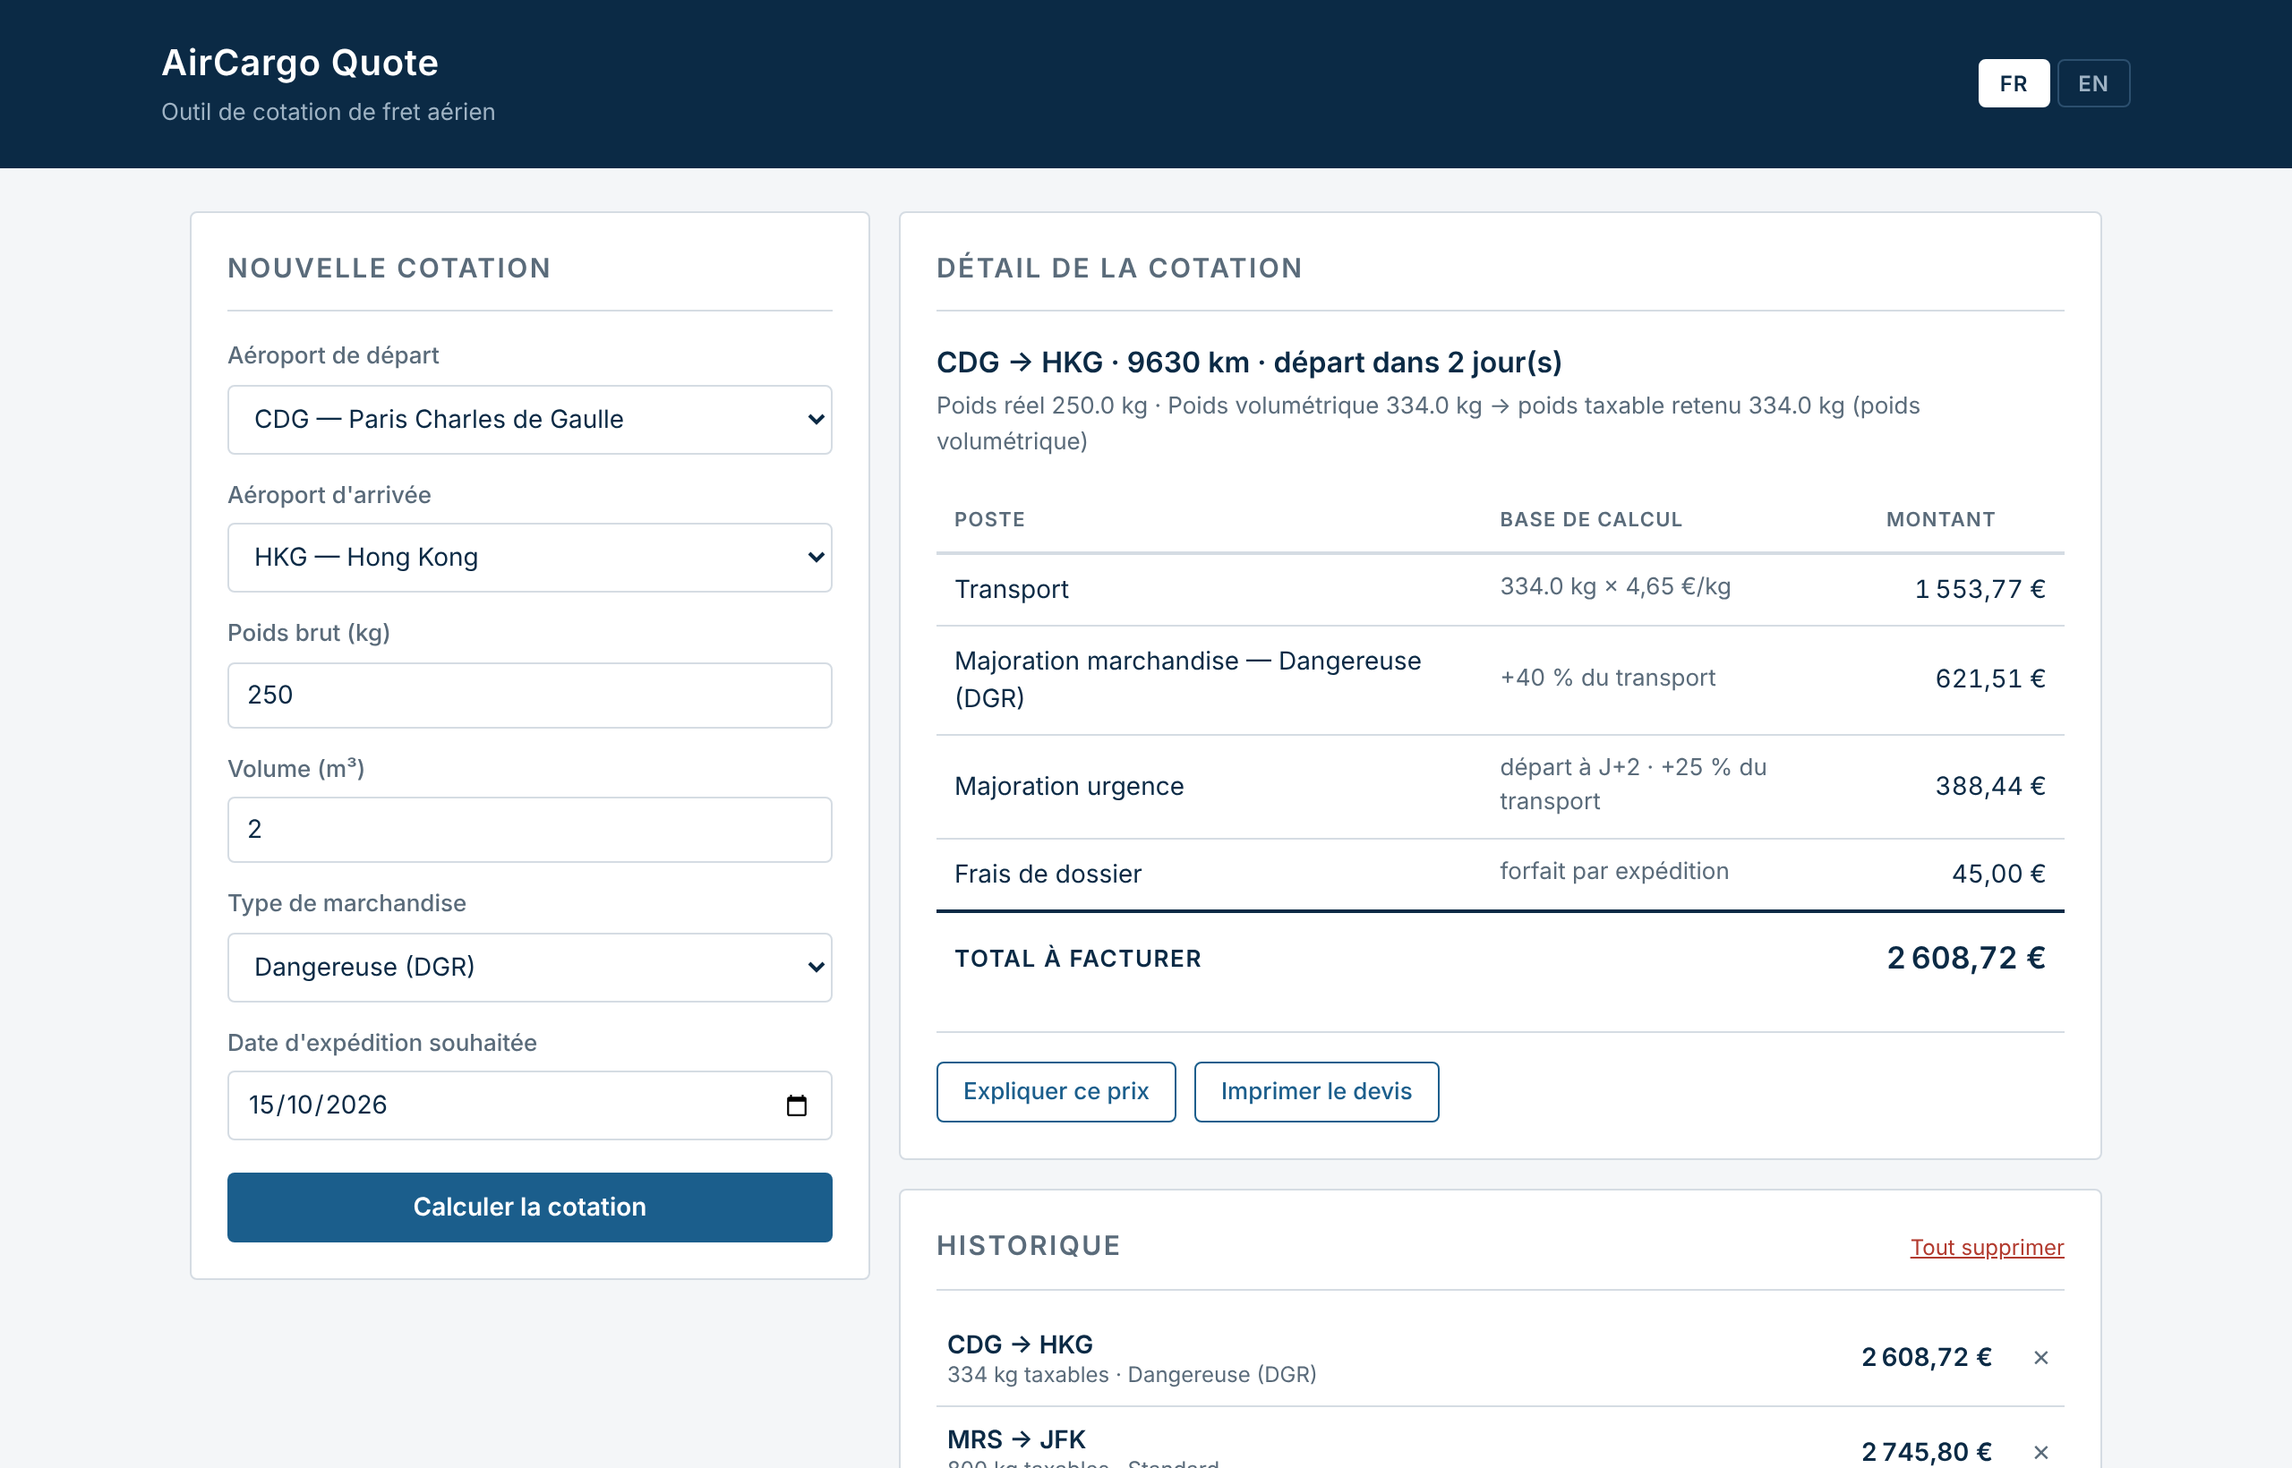
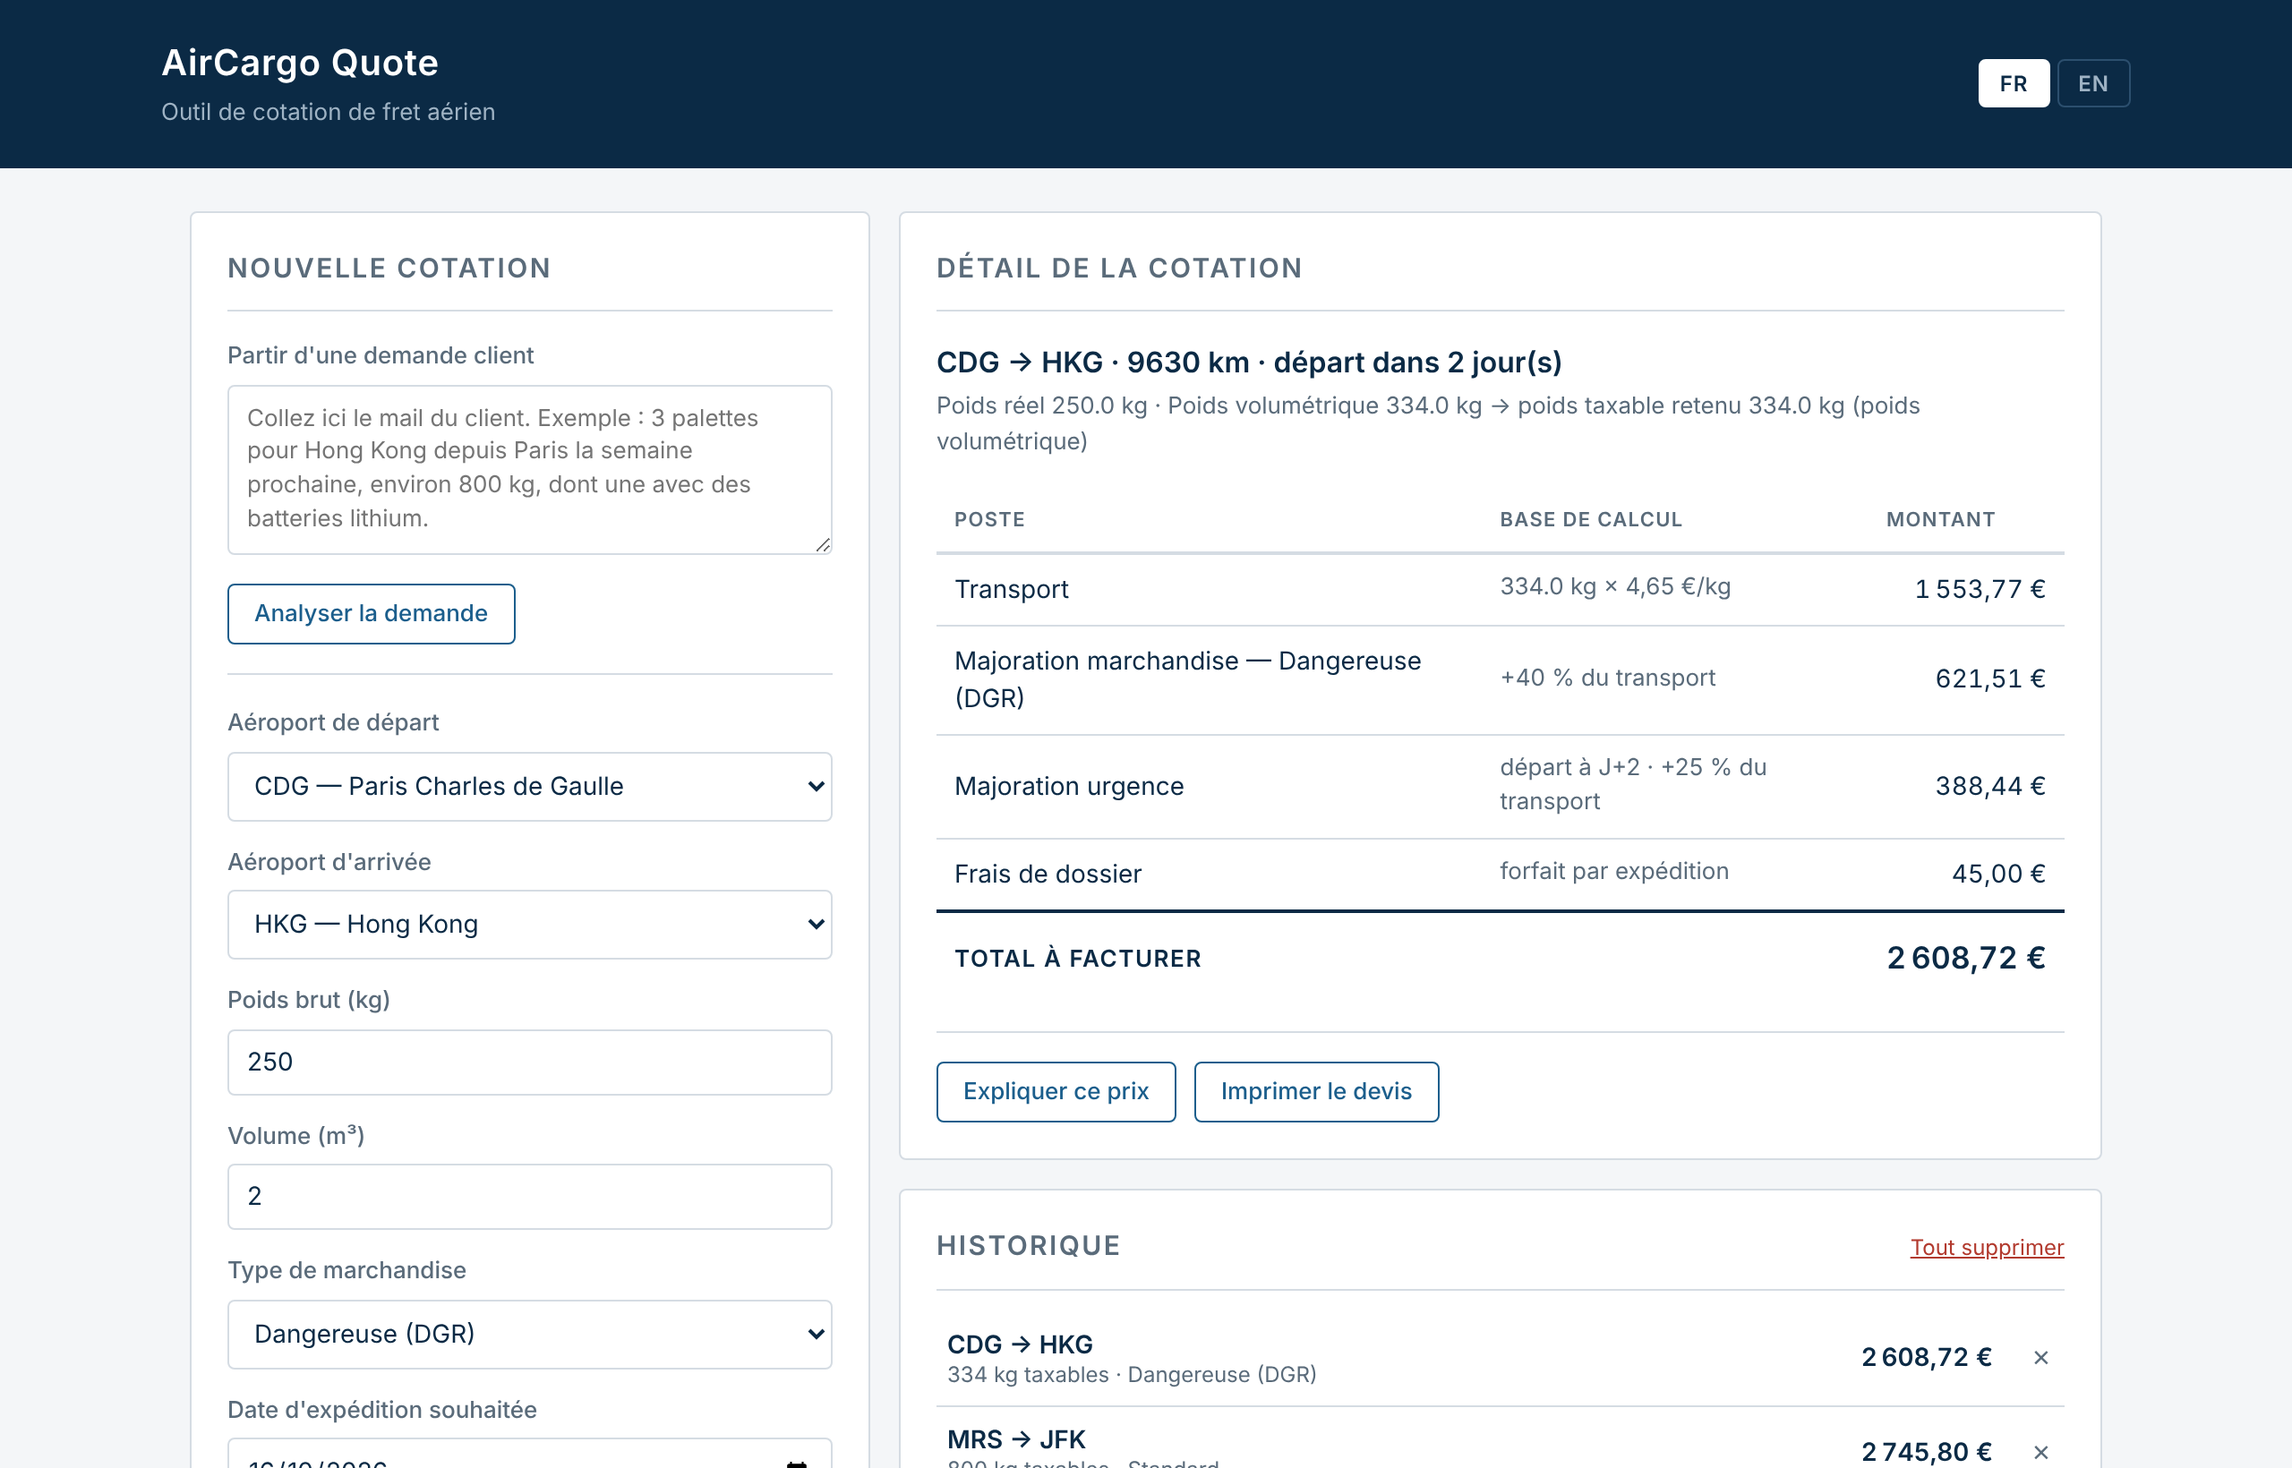
Met a jour le README, la feuille de route et les captures

diff --git a/ROADMAP.md b/ROADMAP.md
@@ -1,6 +1,6 @@
 # Feuille de route — vers la v2.0.0
 
-Version actuelle : **1.3.1**
+Version actuelle : **1.4.0**
 
 Ce document décrit la trajectoire de l'outil et la méthode retenue pour
 l'emprunter sans jamais livrer une version cassée.
@@ -48,8 +48,7 @@ par un interrupteur unique :
 ```javascript
 const FONCTIONNALITES = {
   margeInterne: true,
-  capaciteVols: false,   // v1.5 — code présent, pas encore activé
-  assistantSaisie: false // v1.9
+  capaciteVols: false    // v1.6 — code présent, pas encore activé
 };
 ```
 
@@ -63,7 +62,7 @@ deviennent impossibles à fusionner.
 On n'écrase jamais une structure existante. On **ajoute** le nouveau champ,
 on fait cohabiter les deux, on migre, puis seulement on **retire** l'ancien.
 
-Appliqué au stockage : la v1.8 introduit la persistance serveur sans
+Appliqué au stockage : la v1.9 introduit la persistance serveur sans
 supprimer le `localStorage`. Les deux coexistent derrière une même interface,
 le serveur devient la source de vérité, et le stockage local n'est retiré
 qu'en v2.0 — quand plus rien n'en dépend. C'est le *strangler fig* : le
@@ -83,7 +82,7 @@ change — ici, quand l'authentification devient obligatoire et que les données
 locales disparaissent. Chaque livraison est marquée :
 
 ```bash
-git tag -a v1.4.0 -m "Marge interne et cloisonnement des donnees"
+git tag -a v1.4.0 -m "Assistant de saisie"
 git push --tags
 ```
 
@@ -91,7 +90,34 @@ git push --tags
 
 ## Les étapes
 
-### v1.4.0 — Marge et cloisonnement interne
+### v1.4.0 — L'assistant de saisie *(livrée)*
+
+**Ce que ça apporte.** Le retournement de l'usage de l'IA. Jusqu'ici, le
+modèle intervenait **à la fin**, une fois le travail fait, pour rédiger un
+texte que l'agent aurait pu écrire lui-même. Désormais il intervient aussi
+**au début**, là où le temps se perd réellement.
+
+Une demande arrive en texte libre, par mail :
+
+> « Bonjour, 3 palettes pour Hong Kong semaine prochaine, environ 800 kg,
+> dont une avec des batteries lithium. »
+
+L'agent colle ce texte. Le modèle propose une expédition structurée — trajet,
+poids, type, date — et **lève un signalement DGR sur les batteries**. Le
+volume n'étant pas donné, le champ reste vide et signalé : le modèle n'estime
+pas un volume à partir d'un nombre de palettes. L'agent complète, corrige,
+puis lance le calcul.
+
+**Le principe qui compte.** Le modèle ne décide rien et ne déclenche rien : il
+prépare une saisie, un humain valide. Sa réponse est vérifiée champ par champ
+côté serveur, par une fonction pure testée sans appel à l'API.
+
+**Pourquoi avant la marge.** L'étape ne dépend d'aucune autre et apporte un
+gain de temps immédiat et mesurable. Elle a donc été avancée.
+
+---
+
+### v1.5.0 — Marge et cloisonnement interne
 
 **Ce que ça apporte.** Un modèle de coût de revient (capacité, manutention,
 traitement documentaire) et, en regard du prix, la marge en euros et en
@@ -99,7 +125,7 @@ pourcentage. Un simulateur de remise : l'agent saisit la remise demandée par
 le client, la marge se recalcule en direct, une alerte se déclenche sous le
 plancher défini.
 
-**Pourquoi en premier.** C'est le geste qui lève l'ambiguïté sur la nature de
+**Pourquoi c'est important.** C'est le geste qui lève l'ambiguïté sur la nature de
 l'outil. Une application qui affiche sa propre marge ne peut pas être
 destinée au client. La frontière interne / externe devient explicite et se
 matérialise en trois endroits :
@@ -121,7 +147,7 @@ déjà enregistrées s'affichent sans marge.
 
 ---
 
-### v1.5.0 — Le référentiel des vols
+### v1.6.0 — Le référentiel des vols
 
 **Ce que ça apporte.** Une table de vols : numéro, appareil, capacité en
 charge marchande et en volume, taux de remplissage courant. L'écran affiche
@@ -135,7 +161,7 @@ comportement n'en dépend. On valide le modèle avant de s'appuyer dessus.
 
 ---
 
-### v1.6.0 — Le prix suit le remplissage
+### v1.7.0 — Le prix suit le remplissage
 
 **Ce que ça apporte.** Le cœur métier de la v2. `calculerCotation()` accepte
 un second argument optionnel, le vol :
@@ -154,15 +180,15 @@ surtout de **la contrainte qui sature en premier** : une expédition dense sur
 un vol saturé en volume est valorisée différemment d'une expédition
 volumineuse sur un vol saturé en masse.
 
-**Pourquoi un paramètre optionnel.** La fonction reste pure et les quinze
-tests existants continuent de passer sans modification — ils appellent la
+**Pourquoi un paramètre optionnel.** La fonction reste pure et les tests
+existants continuent de passer sans modification — ils appellent la
 fonction sans vol et obtiennent exactement les mêmes montants. Les nouveaux
 tests couvrent le second chemin. Aucune régression possible sur les cotations
 déjà émises.
 
 ---
 
-### v1.7.0 — Le cycle de vie du dossier
+### v1.8.0 — Le cycle de vie du dossier
 
 **Ce que ça apporte.** Une cotation cesse d'être un objet mort. Elle acquiert
 un statut et un historique horodaté :
@@ -186,7 +212,7 @@ booking, tracking — deviennent un parcours continu dans l'outil.
 
 ---
 
-### v1.8.0 — La persistance serveur
+### v1.9.0 — La persistance serveur
 
 **Ce que ça apporte.** Une base SQLite et une API REST. Trois tables : vols,
 cotations, événements de statut. Le `localStorage` cesse d'être la source de
@@ -203,29 +229,6 @@ une conséquence.
 serveur. Le reste du code ne sait pas laquelle est active. Les données
 locales existantes sont migrées au premier démarrage. C'est le cœur du
 *strangler fig* — et l'étape qui rend la v2.0 possible sans réécriture.
-
----
-
-### v1.9.0 — L'assistant de saisie
-
-**Ce que ça apporte.** Le retournement de l'usage de l'IA. En v1, le modèle
-intervient **à la fin**, une fois le travail fait, pour rédiger un texte que
-l'agent aurait pu écrire lui-même. En v1.9, il intervient **au début**, là où
-le temps se perd réellement.
-
-Une demande arrive en texte libre, par mail :
-
-> « Bonjour, 3 palettes pour Hong Kong semaine prochaine, environ 800 kg,
-> dont une avec des batteries lithium. »
-
-L'agent colle ce texte. Le modèle propose une expédition structurée — trajet,
-poids, volume estimé — et **lève un signalement DGR sur les batteries**.
-L'agent valide ou corrige avant tout calcul.
-
-**Le principe qui compte.** Le modèle ne décide rien et ne déclenche rien : il
-prépare une saisie, un humain valide. Le gain de temps est mesurable, à la
-différence d'un texte explicatif. C'est ce qu'on appelle une solution
-agentique correctement bornée.
 
 ---
 
@@ -249,7 +252,7 @@ le numéro majeur change.
 - **Conteneurisation** — un `Dockerfile` et un `docker-compose.yml` pour que
   l'application et sa base démarrent d'une seule commande, à l'identique sur
   n'importe quelle machine.
-- **Retrait du `localStorage`** — plus rien n'en dépend depuis la v1.8. C'est
+- **Retrait du `localStorage`** — plus rien n'en dépend depuis la v1.9. C'est
   la phase *contract* : on supprime l'ancien chemin une fois qu'il est
   devenu inutile, pas avant.
 
@@ -273,10 +276,10 @@ Volontairement, et il est utile de savoir dire pourquoi :
 
 | Version | Apport | Compétence démontrée |
 |---|---|---|
-| 1.4.0 | Marge, remise, cloisonnement | Modélisation, minimisation des données |
-| 1.5.0 | Référentiel des vols | Modélisation de données |
-| 1.6.0 | Prix selon remplissage | Algorithmique, yield management |
-| 1.7.0 | Cycle de vie du dossier | Machine à états, tests |
-| 1.8.0 | Base de données et API | SQL, REST, migration progressive |
-| 1.9.0 | Assistant de saisie | Solutions agentiques bornées |
+| 1.4.0 | Assistant de saisie *(livrée)* | Solutions agentiques bornées, validation |
+| 1.5.0 | Marge, remise, cloisonnement | Modélisation, minimisation des données |
+| 1.6.0 | Référentiel des vols | Modélisation de données |
+| 1.7.0 | Prix selon remplissage | Algorithmique, yield management |
+| 1.8.0 | Cycle de vie du dossier | Machine à états, tests |
+| 1.9.0 | Base de données et API | SQL, REST, migration progressive |
 | 2.0.0 | Multi-utilisateur, Docker | Authentification, concurrence, conteneurs |

diff --git a/README.md b/README.md
@@ -3,22 +3,28 @@
 [![Tests](https://github.com/toklivan/aircargo-quote/actions/workflows/tests.yml/badge.svg)](https://github.com/toklivan/aircargo-quote/actions/workflows/tests.yml)
 
 Simulation d'un outil de cotation de fret aérien, écrite en HTML, CSS et
-JavaScript sans framework, avec un petit serveur Node.js pour l'appel à l'API
-Mistral.
+JavaScript sans framework, avec un petit serveur Node.js pour les appels à
+l'API Mistral : analyser une demande client et expliquer un prix.
 
 **Démo :** [toklivan.github.io/aircargo-quote](https://toklivan.github.io/aircargo-quote/)
-— version statique, sans serveur : l'explication du prix y est désactivée.
+— version statique, sans serveur : l'assistant de saisie et l'explication du
+prix y sont désactivés.
 
 ![Détail d'une cotation](docs/screenshots/02-detail-prix.png)
 
-| Devis imprimable | Historique |
+| Assistant de saisie | Devis imprimable |
 |---|---|
-| ![Devis imprimable](docs/screenshots/04-devis-imprimable.png) | ![Historique](docs/screenshots/03-historique.png) |
+| ![Assistant de saisie](docs/screenshots/06-assistant-saisie.png) | ![Devis imprimable](docs/screenshots/04-devis-imprimable.png) |
 
 ![Interface en anglais](docs/screenshots/05-interface-anglais.png)
 
 ## Fonctionnalités
 
+- **Assistant de saisie** : un mail client collé en texte libre est analysé par
+  un modèle Mistral, qui pré-remplit le formulaire. Les champs proposés sont
+  surlignés, les champs introuvables sont vidés et signalés, et une alerte
+  s'affiche en cas de marchandise dangereuse. Le calcul n'est jamais lancé
+  automatiquement : l'agent relit et valide.
 - **Cotation** à partir d'un trajet, d'un poids, d'un volume, d'un type de
   marchandise et d'une date d'expédition.
 - **Détail du prix ligne par ligne**, avec la base de calcul de chaque ligne :
@@ -75,16 +81,17 @@ npm test
 ```
 
 Sans serveur, en ouvrant `index.html` directement, tout fonctionne sauf
-l'explication du prix.
+l'assistant de saisie et l'explication du prix.
 
 ## Architecture
 
 ```
-calcul.js         calcul du prix, sans aucun accès à la page
-traductions.js    textes français et anglais
-script.js         interface : affichage, historique, devis, appels au serveur
-server/server.js  proxy vers l'API Mistral
-tests/            tests unitaires du calcul
+calcul.js             calcul du prix, sans aucun accès à la page
+traductions.js        textes français et anglais
+script.js             interface : affichage, historique, devis, appels au serveur
+server/server.js      proxy vers l'API Mistral
+server/extraction.js  vérification des propositions du modèle
+tests/                tests unitaires du calcul et de la vérification
 ```
 
 **Le calcul est séparé de l'interface.** `calcul.js` ne touche jamais à la
@@ -98,12 +105,29 @@ appelle donc le serveur, et c'est lui qui appelle Mistral avec la clé lue dans
 n'expose pas le détail des erreurs de l'API.
 
 Au chargement, la page appelle `/api/sante`. Si le serveur ne répond pas,
-comme sur GitHub Pages, le bouton d'explication est désactivé.
+comme sur GitHub Pages, l'assistant et le bouton d'explication sont désactivés.
 
-**Tests et intégration continue.** 15 tests unitaires écrits avec le module
-de test intégré à Node (`node:test`), sans dépendance. Ils couvrent le choix
-entre poids réel et poids volumétrique, le seuil exact de l'urgence et la
-cohérence entre les lignes du détail et le total. Les dates de test sont
+**L'assistant de saisie ne fait pas confiance au modèle.** Le modèle répond
+en JSON, mais le serveur vérifie chaque valeur avant de la renvoyer :
+aéroport présent dans la table de `calcul.js`, poids et volume positifs et
+plausibles, type connu, date existante et non passée. Toute valeur hors de
+ces règles devient vide. La consigne interdit d'inventer une information ou
+d'estimer un volume à partir d'un nombre de palettes : un champ vide se voit,
+une valeur approximative non. Dès qu'une marchandise dangereuse est signalée,
+le type passe en « Dangereuse », à l'agent de le corriger si l'alerte est
+infondée.
+
+Le texte collé est traité comme une donnée non fiable. Il est limité à
+2 000 caractères, encadré par des délimiteurs dans le prompt, et seuls les
+six champs du formulaire peuvent ressortir de l'analyse : une instruction
+glissée dans un mail ne peut ni fixer un prix ni déclencher un calcul.
+
+**Tests et intégration continue.** 28 tests unitaires écrits avec le module
+de test intégré à Node (`node:test`), sans dépendance. Pour le calcul, ils
+couvrent le choix entre poids réel et poids volumétrique, le seuil exact de
+l'urgence et la cohérence entre les lignes du détail et le total. Pour
+l'assistant, ils soumettent à la vérification des réponses de modèle fausses
+ou piégées, sans appeler l'API. Les dates de test sont
 calculées par rapport au jour d'exécution pour ne pas expirer. GitHub Actions
 lance les tests à chaque push et à chaque pull request sur `main`.
 
@@ -111,7 +135,9 @@ lance les tests à chaque push et à chaque pull request sur `main`.
 
 - L'historique reste dans le navigateur : il n'est ni partagé ni sauvegardé
   ailleurs.
-- La route d'explication n'a pas de limitation de débit.
+- Les routes qui appellent Mistral n'ont pas de limitation de débit.
+- L'assistant ne traite qu'une expédition par demande et ne connaît que les
+  aéroports de la table. Les alertes restent dans la langue du mail.
 - Les distances entre aéroports sont stockées en dur et arrondies.
 - La comparaison des dates ignore les fuseaux horaires.
 - Le PDF dépend du navigateur qui l'imprime.
